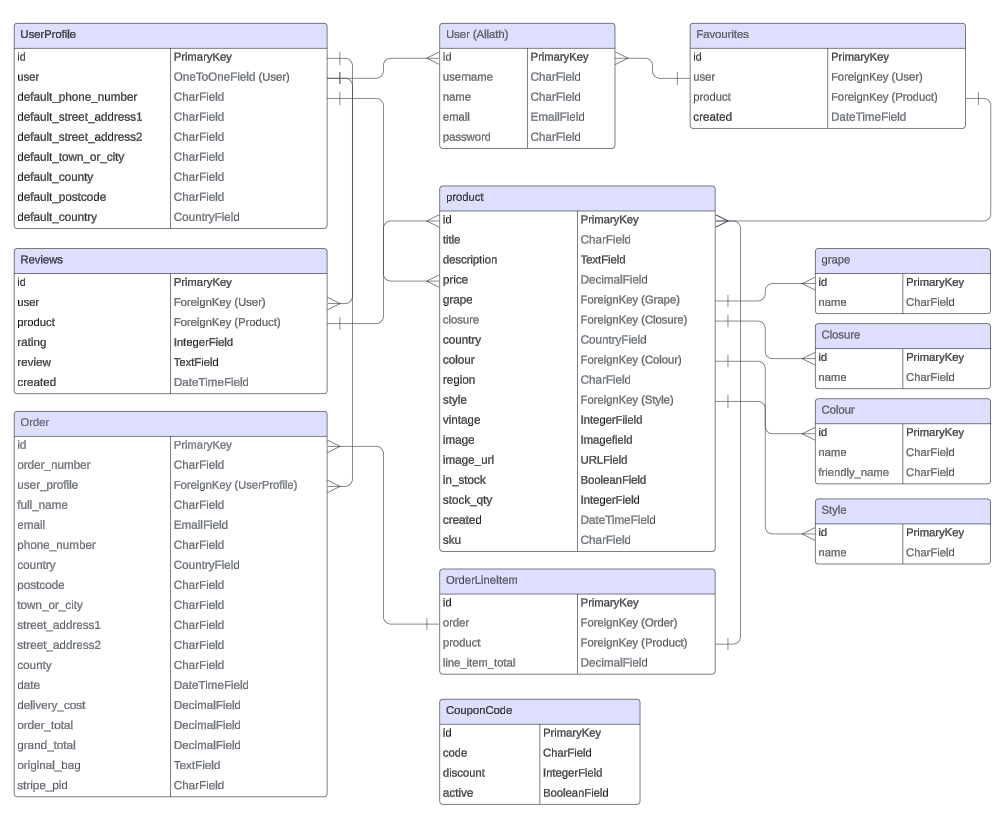
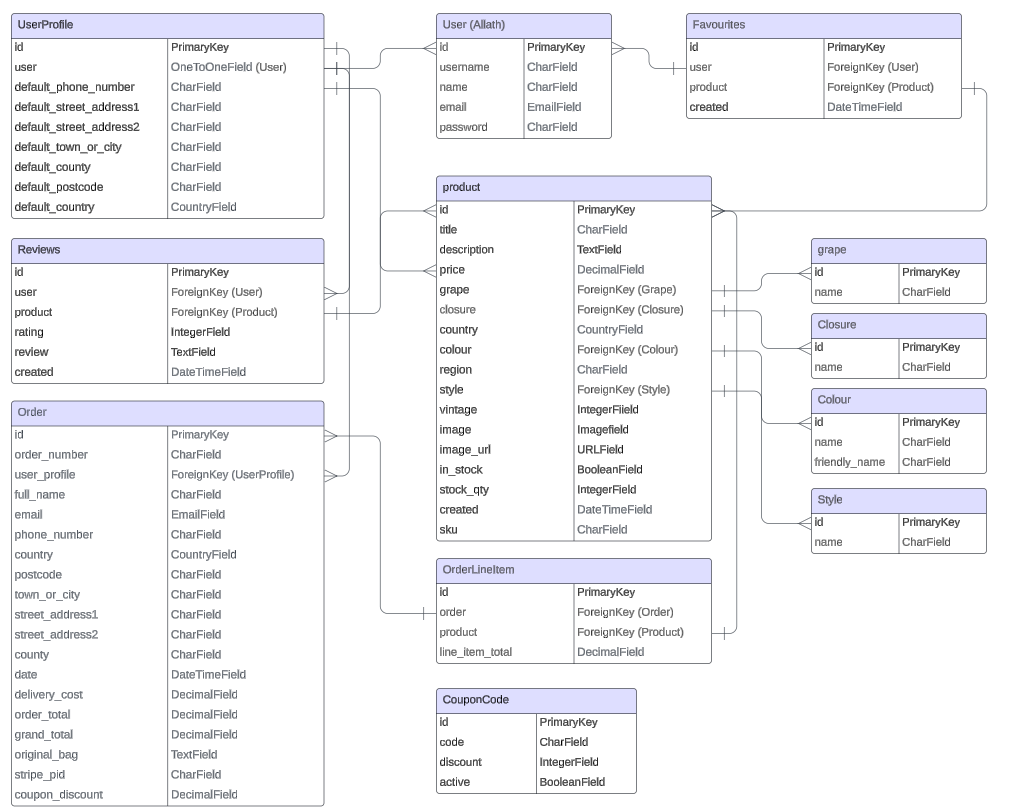
Update ERD image and README

Changed region(s): [[0.0, 0.0, 0.9851, 1.0]]

diff --git a/README.md b/README.md
@@ -94,7 +94,7 @@ All User Stories include:
 ### Structure & Logical Flow
 
 The database model diagram was designed using Lucid Charts
-![Screenshot of flowchart](static/images/entity-relationship-diagram.PNG)
+![Screenshot of flowchart](\documentation\images\features\ERD.PNG)
 
 **Product Model**
 The main model that contains all the fields needed for the products. This model is based on the "Boutique Ado" walkthrough project. Some adjustments and additions were made to fit the needs of my project. 
@@ -128,7 +128,7 @@ I used Mockflow to create the following wireframes for both desktop and mobile d
 
 Page | Wireframe Desktop  | Wireframe Mobile
 --- | --- | --- 
-Home page | ![Home page image](documentation\images\wireframes\home-page.PNG) |![Home page image](documentation\images\wireframes\home-page-mobile.PNG)
+Home page | ![Home page image](/documentation/images/wireframes/home-page.PNG) |![Home page image](\documentation\images\wireframes\home-page-mobile.PNG)
 Product Detail page | ![Post detail page image](documentation\images\wireframes\product-detail-page.PNG) |![Post detail page image](documentation\images\wireframes\product-detail-page-mobile.PNG)
 
 
@@ -243,44 +243,63 @@ The shopping bag page can be accessed from the nav menu.
 - The subtotals are calculated automatically.
 
 
-**Coupon Codes**
-The coupon code form is on the shopping bag page. When a user enters a valid coupon code the discount is applied to the grand total. the coupon can be removed by clicking the Remove Coupon button.
-![coupon code](documentation\images\features\coupon-code.PNG)
+**Stock Levels**
+- Stock quantitities have been implemented into the product model. When a user adds an item or updates the quantity in the shopping bag, the add-to-bag function checks the quantity selected plus the quantity of that item in the bag and compares it to the stock levels of the product. The user cannot add to bag more items than there is in stock. 
+- In the event that 2 orders for the same items go through at the same time and there is insufficient stock to fulfill both orders, the admin can cancel the status of the order and contact the customer for a refund. 
+![Stock error image](documentation\images\features\stock-error.PNG)
 
-![coupon code](documentation\images\features\coupon-applied.PNG)
+
+**Coupon Codes**
+The coupon code form is on the shopping bag page. When a user enters a valid coupon code the discount is applied to the grand total. The coupon can be removed by clicking the Remove Coupon button.
+![coupon code applied image](documentation\images\features\coupon-code.PNG)
+
+![coupon code applied image](documentation\images\features\coupon-applied.PNG)
 
 
 **Checkout Page**
-![Checkout Image](/static)
-![Coupon Image](/static)
-- The checkout page shows the products, prices, a coupon section, includes a users information and a stripe element for secure card payments.
-- On successful checkout, an order summary page is shown. This will include the discount if a coupon was used, and has a link to brows more products after.
+- The checkout page shows the user's delivery and payment information and a summary of the user's order. if the user is logged in they can check the box to save their details for future transactions.
 - Users must enter their payment information before completing the checkout and all payments are handled via Stripe.
-![Order Summary Image](/static)
+![Checkout page Image](documentation\images\features\checkout.PNG)
 
 
+**Order Confirmation Page**
+- On successful checkout, an order summary page is shown. This will include the discount if a coupon was used.
+![Order summary page Image](documentation\images\features\order-confirmation.PNG)
 
-**order Confirmation Page**
+
+**Order Confirmation Email**
+- On successful checkout, an order summary page is shown. This will include the discount if a coupon was used.
+![Order summary page Image](documentation\images\features\order-confirmation.PNG)
 
 
 **Add products**
+- This page shows the product creation form and all required fields and allows the admin to add an item to the database. 
+![Add Product Image](documentation\images\features\add-product.PNG)
 
 
 **Edit products**
-This edit product page shows the product form prefilled with the existing data in the database. It allows the admin to modify all details about the products.
-![Edit Product Image](/static)
+- The edit product page shows the product form prefilled with the existing data in the database. It allows the admin to modify all details about the products.
+![Edit Product Image](documentation\images\features\edit-product.PNG)
+
 
 **Delete products**
-This allows the admin to delete a product
-![Delete Product Image](/static)
+- This allows the admin to delete a product. 
+- A confirmation modal appears when the user clicks on delete. The user clicks on Confirm Delete to permanently delete the product.
+![Delete Product Image](documentation\images\features\delete-product.PNG)
+
+
+**Admin Page**
+* An admin area only allowing access to the site admin/superuser.
+* The admin page is only accessible by typing "admin" in the url <https://wine-store-ci-bbef57464b33.herokuapp.com/admin/>.
+* User name and password must be entered to access the admin page.
+* The administrator can manage products, users, orders and coupons.
+![Admin page Image](documentation\images\features\admin.PNG)
 
 
 ### Future Features
-
 * Send email to customers when their order changes status.
-* Coupon management page for superusers/admin
+* Coupon management on product management page for superusers/admin
 * Social media login.
-* Add a Blog.
 * FAQ page, About page, Terms and conditions and privacy staement.
 
 
@@ -297,10 +316,10 @@ This website follows a Business to Customer model - it sells wine products direc
 
 ### Marketing
 - The website has an embedded [Mailchimp](https://mailchimp.com/?currency=EUR) newsletter in the footer. This section facilitates user engagement and promotes the e-commerce store through effective email marketing.
-![Newsletter](/)
+![Newsletter](documentation\images\features\newsletter.PNG)
 
 - A Facebook Business Page was created. The main goal of this Facebook page would be to showcase new deals on products, give coupon code discounts to followers, and have targeted ads for different times of the year - "Christmas Sale", "Valentines Specials"   etc.
-![Facebook Business Page](/)
+![Facebook Business Page](documentation\images\features\facebook-page.PNG)
 
 
 ## Testing
@@ -358,6 +377,12 @@ Testing documentation can be found [here.](TESTING.md)
 * The front end development framework used for styling along with custom CSS.
   
 **Pillow**
+
+### Programs
+- [W3C HTML Validator](https://validator.w3.org/) was used to check for errors in the HTML code.
+- [W3C CSS Validator](https://jigsaw.w3.org/css-validator/) was used to check for errors in the CSS code
+- [Js Hint](https://jshint.com/) was used to validate the JavaScript code.
+- [CI Python Linter](https://pep8ci.herokuapp.com/) was used to validate the Python code.
 
 
 ## Testing
